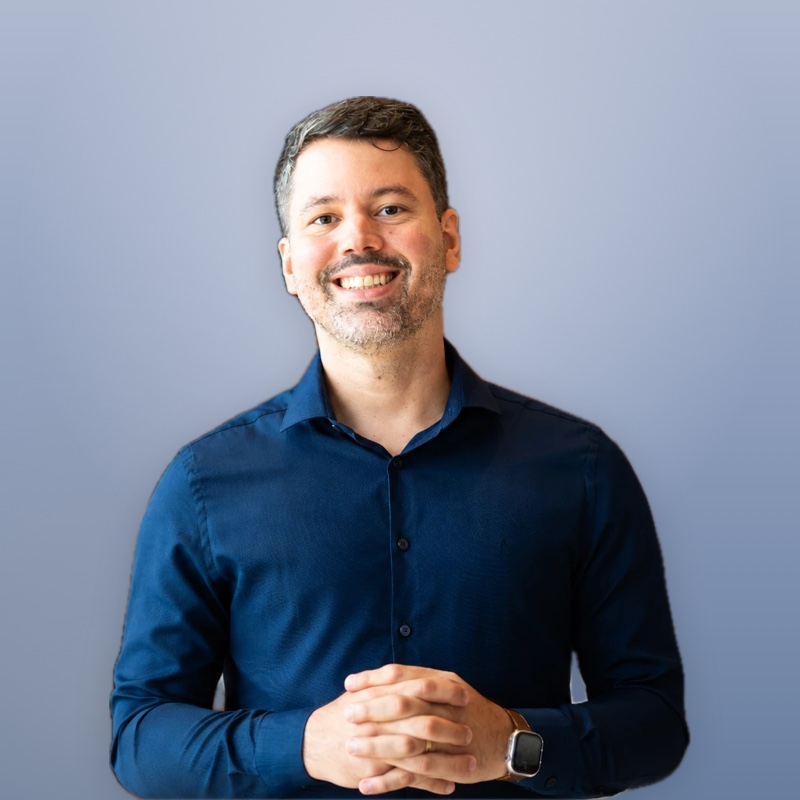
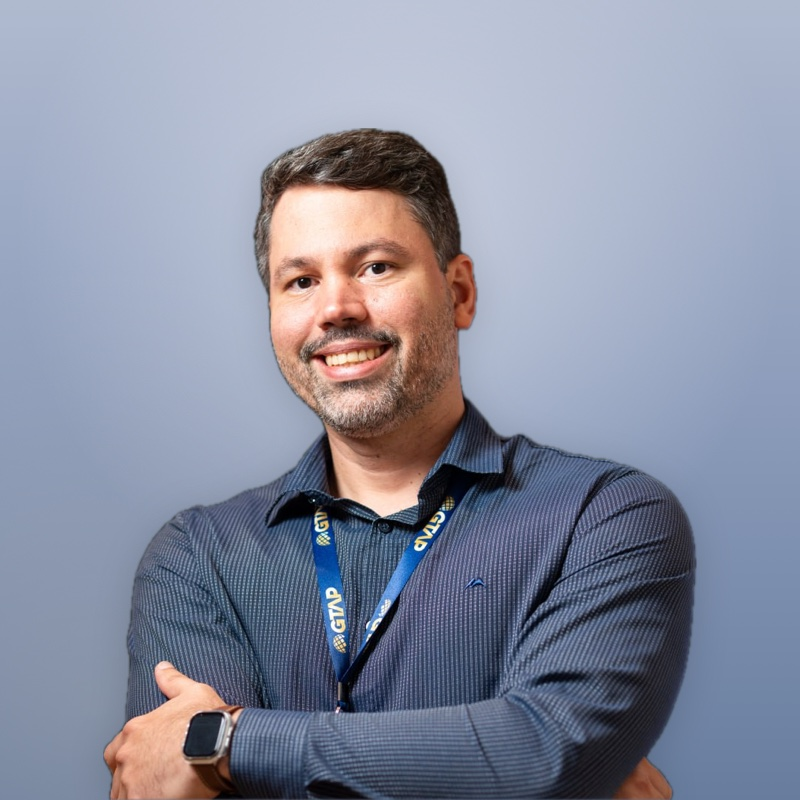
Volta a foto de Gileard enviada junto com a de Soraya
Mesma foto de braços cruzados, agora no degradê suave da marca.

diff --git a/index.html b/index.html
@@ -406,7 +406,7 @@
       <article class="team-card">
         <p class="team-fase">Antes do código</p>
         <div class="team-photo">
-          <img src="img/equipe/gileard.jpg?v=6" width="800" height="800" alt="Gileard Teixeira" loading="lazy">
+          <img src="img/equipe/gileard.jpg?v=7" width="800" height="800" alt="Gileard Teixeira" loading="lazy">
         </div>
         <div class="team-caption">
           <span class="role-tag">Sócio</span>
